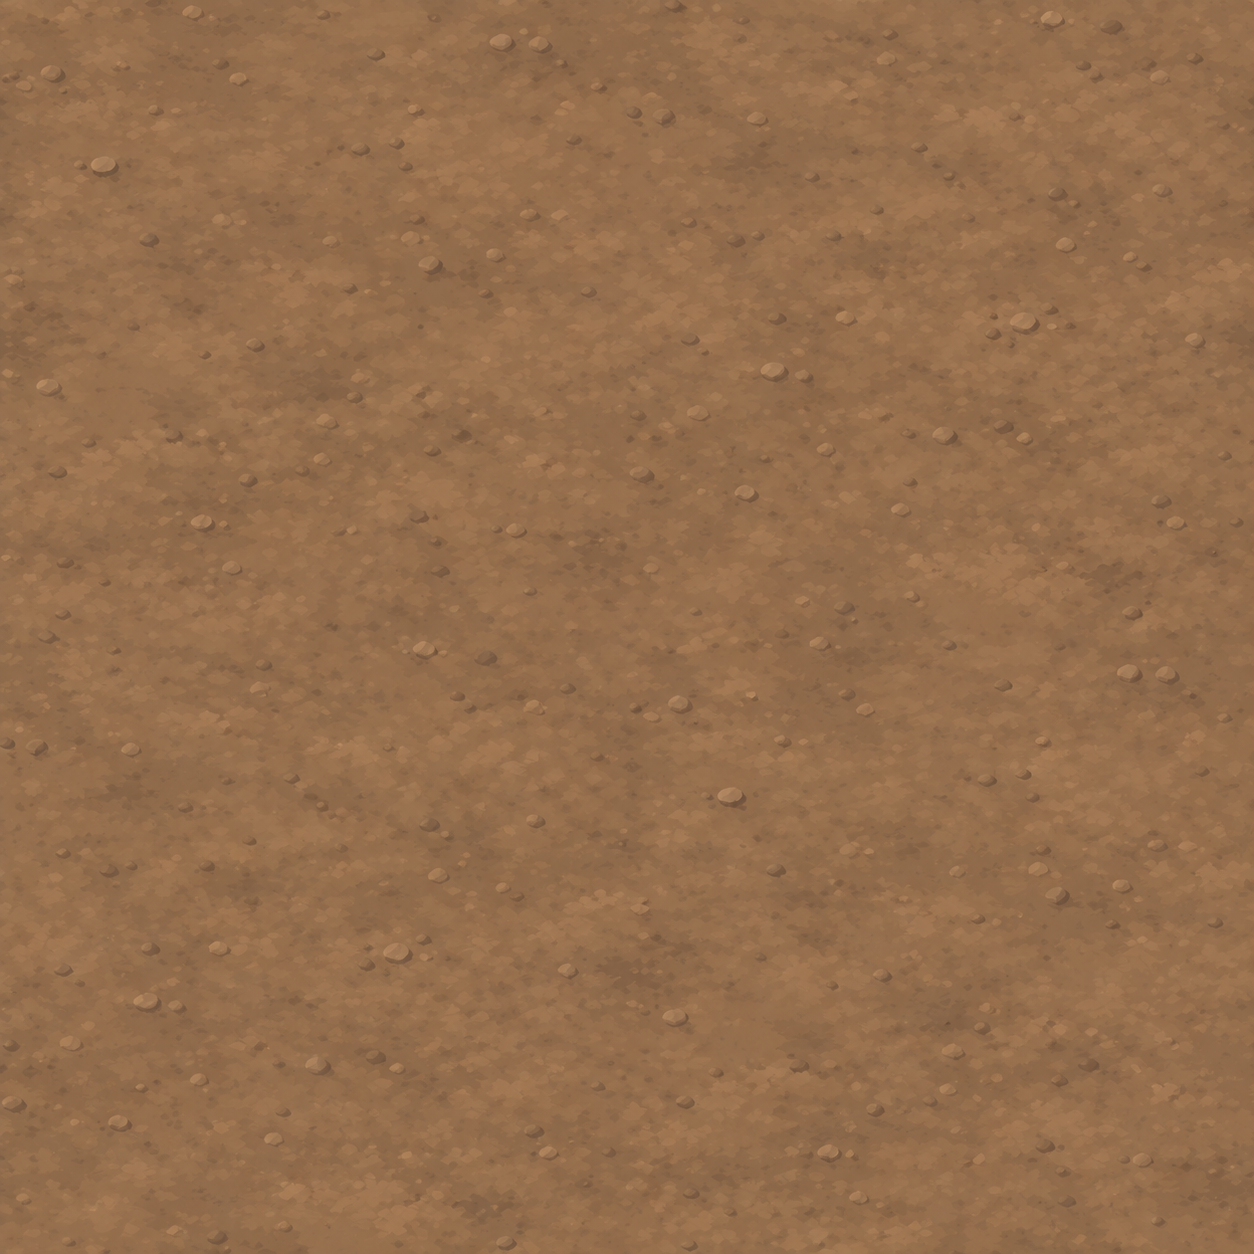
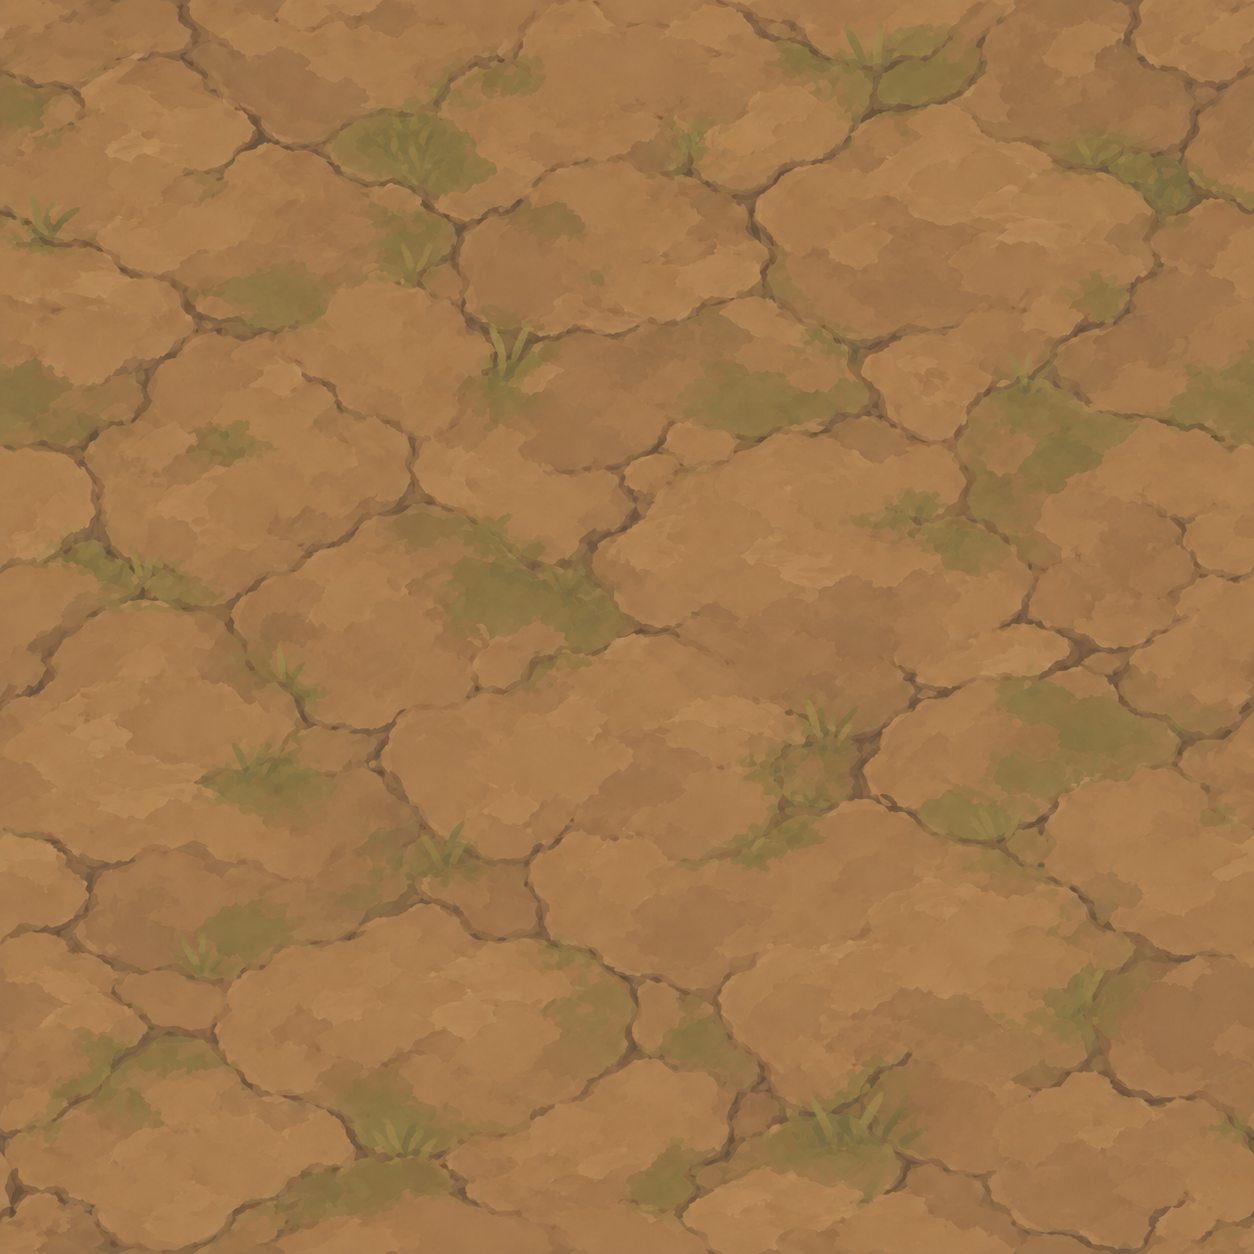
Add files via upload

diff --git a/sidescroll.js b/sidescroll.js
@@ -1,7 +1,7 @@
 (() => {
   'use strict';
 
-  // SideScroll v0.2.60: tune procedural woodland treatment around the approved tree set: smaller trees, non-repeating/spaced placement, far-side-only spawning, no legacy ground dressing, and softer blue distance fog.
+  // SideScroll v0.2.61: bring the procedural woodland back toward the path: slightly larger trees and a denser, closer far-side fringe while preserving spacing/repeat rules.
 
   const queryParams = new URLSearchParams(window.location.search);
   const PLAYER_MODE = queryParams.get('mode') === 'player';
@@ -724,7 +724,7 @@
     return tex;
   }
 
-  textures.pathDirt = createRepeatingImageTexture('terrain-dirt.png?v=0.2.60', 'terrain dirt texture', {
+  textures.pathDirt = createRepeatingImageTexture('terrain-dirt.png?v=0.2.61', 'terrain dirt texture', {
     placeholderDraw: drawFallbackTerrainTexture,
     potSize: 1024
   });
@@ -732,8 +732,8 @@
   // v1.8.81: forest dressing now comes from one authored atlas.
   // This removes the old per-file fallback path which could substitute the
   // full woodland source sheet when an individual PNG failed to load.
-  textures.dressingAtlas = createImageTexture('sidescroll-dressing-atlas.png?v=0.2.60', 'SideScroll dressing atlas');
-  textures.treeAtlas = createImageTexture('sidescroll-tree-atlas.png?v=0.2.60', 'SideScroll tree atlas');
+  textures.dressingAtlas = createImageTexture('sidescroll-dressing-atlas.png?v=0.2.61', 'SideScroll dressing atlas');
+  textures.treeAtlas = createImageTexture('sidescroll-tree-atlas.png?v=0.2.61', 'SideScroll tree atlas');
   const assetUv = {
     tree01: { scale: [0.239257812, 0.408203125], offset: [0.006835938, 0.578125000] },
     tree02: { scale: [0.239257812, 0.329101562], offset: [0.252929688, 0.578125000] },
@@ -976,14 +976,14 @@
   const TILE = { minX: -62, maxX: 62 };
   const TILE_WIDTH = TILE.maxX - TILE.minX;
   const WORLD = { nearZ: 10.5, farZ: -42 };
-  // v0.2.60: a slightly bluer fog with a gentler near-field contribution.
+  // v0.2.61: a slightly bluer fog with a gentler near-field contribution.
   // The fragment shader adds an eased/power curve so contrast stays stronger
   // around the player and falls away progressively deeper into the forest.
   const fogColor = [0.835, 0.885, 0.945];
   const FOG_NEAR = 7.8;
   const FOG_FAR = 46.0;
   const FOG_AMOUNT = 0.90;
-  const PROCEDURAL_TREE_SCALE = 0.80;
+  const PROCEDURAL_TREE_SCALE = 0.90;
   const HIDE_LEGACY_GROUND_DRESSING = true;
   const groundY = -4.55;
 
@@ -1347,13 +1347,13 @@
   function scatterForest() {
     const trees = ['tree01', 'tree02', 'tree03', 'tree04', 'tree05', 'tree06', 'tree07', 'tree08'];
 
-    // v0.2.60 woodland pass -------------------------------------------------
+    // v0.2.61 woodland proximity pass ----------------------------------------
     // Only the approved tree family is spawned procedurally for now. The old
     // grass/rock dressing is intentionally withheld until those assets receive
     // the same art treatment, and no trees are placed on the near side of the
     // gameplay path.
     const placedTrees = [];
-    const nearestTreeZ = -(PATH_FLAT_HALF + 1.85); // ~2m clear of gameplay path.
+    const nearestTreeZ = -(PATH_FLAT_HALF + 1.05); // let some trunks sit about 1m beyond the flat gameplay edge.
     const generalSpacing = 3.15;
     const sameVariantSpacing = 12.5;
 
@@ -1398,10 +1398,11 @@
       return true;
     }
 
-    // Main forest. About a quarter of attempts live in an irregular near fringe
-    // between roughly 2m and 6m beyond the playable path. The rest spreads into
-    // the full depth of the woodland. This breaks the previous ruler-straight
-    // path edge without letting trunks intrude on gameplay space.
+    // Main forest. A larger share now lives in the near fringe and is biased
+    // toward its closest edge. Combined with the slightly larger tree scale,
+    // this lets canopies intrude visually over the route so the player feels
+    // inside the woodland rather than alongside a distant tree line. Trunks
+    // remain on the far side only and outside the flat gameplay surface.
     let placed = 0;
     let attempts = 0;
     const targetMainTrees = 118;
@@ -1409,8 +1410,8 @@
       attempts += 1;
       const x = TILE.minX + rand() * TILE_WIDTH;
       let z;
-      if (rand() < 0.28) {
-        z = nearestTreeZ - Math.pow(rand(), 0.78) * 4.3;
+      if (rand() < 0.40) {
+        z = nearestTreeZ - Math.pow(rand(), 1.45) * 4.8;
       } else {
         const depth = Math.pow(rand(), 1.18);
         z = nearestTreeZ - 1.0 - depth * 33.6;
@@ -1789,7 +1790,7 @@
   }
 
   function inventoryThumbMarkup(itemDef) {
-    if (itemDef?.image) return `<span class="sidescroll-inventory-thumb"><img src="${itemDef.image}?v=0.2.60" alt=""></span>`;
+    if (itemDef?.image) return `<span class="sidescroll-inventory-thumb"><img src="${itemDef.image}?v=0.2.61" alt=""></span>`;
     if (itemDef?.asset === 'forest-key') return '<span class="sidescroll-inventory-thumb sidescroll-inventory-key-thumb" aria-hidden="true"><i></i></span>';
     return '<span class="sidescroll-inventory-thumb" aria-hidden="true">◇</span>';
   }
@@ -4537,7 +4538,7 @@
           ? `sidescroll-tree-${name.slice(-2)}.png`
           : (name.startsWith('ground') ? `sidescroll-ground-${name.slice(-2)}.png` : null));
         if (file) {
-          btn.innerHTML = `<span class="sidescroll-asset-thumb"><img src="${file}?v=0.2.60" alt="" loading="eager"></span><small>${info.label}</small>`;
+          btn.innerHTML = `<span class="sidescroll-asset-thumb"><img src="${file}?v=0.2.61" alt="" loading="eager"></span><small>${info.label}</small>`;
         } else if (name === 'crate') {
           btn.innerHTML = `<span class="sidescroll-crate-thumb" aria-hidden="true"><i></i></span><small>${info.label}</small>`;
         } else {

diff --git a/puzzle-groups.js b/puzzle-groups.js
@@ -3,17 +3,17 @@ window.SideScrollPuzzleConfig = {
   assetPacks: {
     "woodland-puzzle-atlas-v1": {
       assets: [
-        { name: "puzzle-log-a", url: "puzzle-log-a.png?v=0.2.60", aspect: 1.7095 },
-        { name: "puzzle-log-b", url: "puzzle-log-b.png?v=0.2.60", aspect: 1.5423 },
-        { name: "puzzle-log-c", url: "puzzle-log-c.png?v=0.2.60", aspect: 2.1916 },
-        { name: "puzzle-log-d", url: "puzzle-log-d.png?v=0.2.60", aspect: 2.3850 },
-        { name: "fallen-tree", url: "fallen-tree.png?v=0.2.60", aspect: 2.3644 },
-        { name: "tree-stump", url: "tree-stump.png?v=0.2.60", aspect: 2.4223 },
-        { name: "broken-branch", url: "broken-branch.png?v=0.2.60", aspect: 2.7182 },
-        { name: "stone-wall", url: "stone-wall.png?v=0.2.60", aspect: 3.1356 },
-        { name: "stone-piece-a", url: "stone-piece-a.png?v=0.2.60", aspect: 1.0664 },
-        { name: "stone-piece-b", url: "stone-piece-b.png?v=0.2.60", aspect: 0.9545 },
-        { name: "stone-piece-c", url: "stone-piece-c.png?v=0.2.60", aspect: 1.1278 }
+        { name: "puzzle-log-a", url: "puzzle-log-a.png?v=0.2.61", aspect: 1.7095 },
+        { name: "puzzle-log-b", url: "puzzle-log-b.png?v=0.2.61", aspect: 1.5423 },
+        { name: "puzzle-log-c", url: "puzzle-log-c.png?v=0.2.61", aspect: 2.1916 },
+        { name: "puzzle-log-d", url: "puzzle-log-d.png?v=0.2.61", aspect: 2.3850 },
+        { name: "fallen-tree", url: "fallen-tree.png?v=0.2.61", aspect: 2.3644 },
+        { name: "tree-stump", url: "tree-stump.png?v=0.2.61", aspect: 2.4223 },
+        { name: "broken-branch", url: "broken-branch.png?v=0.2.61", aspect: 2.7182 },
+        { name: "stone-wall", url: "stone-wall.png?v=0.2.61", aspect: 3.1356 },
+        { name: "stone-piece-a", url: "stone-piece-a.png?v=0.2.61", aspect: 1.0664 },
+        { name: "stone-piece-b", url: "stone-piece-b.png?v=0.2.61", aspect: 0.9545 },
+        { name: "stone-piece-c", url: "stone-piece-c.png?v=0.2.61", aspect: 1.1278 }
       ]
     }
   },

diff --git a/play.html b/play.html
@@ -9,7 +9,7 @@
   <meta name="theme-color" content="#081015">
   <link rel="manifest" href="manifest.json">
   <link rel="apple-touch-icon" href="icon-192.png">
-  <link rel="stylesheet" href="style.css?v=0.2.60">
+  <link rel="stylesheet" href="style.css?v=0.2.61">
   <title>SideScroll</title>
 </head>
 <body class="modular-game ss-standalone-game" data-game-id="game-16">
@@ -279,11 +279,11 @@
     </section>
   </main>
 
-  <script src="site-config.js?v=0.2.60"></script>
-  <script src="core.js?v=0.2.60"></script>
-  <script src="walk-rig.js?v=0.2.60"></script>
-  <script src="puzzle-groups.js?v=0.2.60"></script>
-  <script src="baked-game-design.js?v=0.2.60"></script>
-  <script src="sidescroll.js?v=0.2.60"></script>
+  <script src="site-config.js?v=0.2.61"></script>
+  <script src="core.js?v=0.2.61"></script>
+  <script src="walk-rig.js?v=0.2.61"></script>
+  <script src="puzzle-groups.js?v=0.2.61"></script>
+  <script src="baked-game-design.js?v=0.2.61"></script>
+  <script src="sidescroll.js?v=0.2.61"></script>
 </body>
 </html>

diff --git a/walk-lab.html b/walk-lab.html
@@ -9,7 +9,7 @@
   <meta name="theme-color" content="#e7dbd2">
   <link rel="manifest" href="manifest.json">
   <link rel="apple-touch-icon" href="icon-192.png">
-  <link rel="stylesheet" href="style.css?v=0.2.60">
+  <link rel="stylesheet" href="style.css?v=0.2.61">
   <title>Walk Lab · SideScroll</title>
 </head>
 <body class="modular-game ss-standalone-game" data-game-id="game-17">
@@ -78,9 +78,9 @@
     </section>
   </main>
 
-  <script src="site-config.js?v=0.2.60"></script>
-  <script src="core.js?v=0.2.60"></script>
-  <script src="walk-rig.js?v=0.2.60"></script>
-  <script src="walk-lab.js?v=0.2.60"></script>
+  <script src="site-config.js?v=0.2.61"></script>
+  <script src="core.js?v=0.2.61"></script>
+  <script src="walk-rig.js?v=0.2.61"></script>
+  <script src="walk-lab.js?v=0.2.61"></script>
 </body>
 </html>

diff --git a/index.html b/index.html
@@ -9,7 +9,7 @@
   <meta name="theme-color" content="#172026">
   <link rel="manifest" href="manifest.json">
   <link rel="apple-touch-icon" href="icon-192.png">
-  <link rel="stylesheet" href="style.css?v=0.2.60">
+  <link rel="stylesheet" href="style.css?v=0.2.61">
   <title>SideScroll</title>
 </head>
 <body class="modular-home ss-home">
@@ -52,8 +52,8 @@
     </section>
   </div>
 
-  <script src="site-config.js?v=0.2.60"></script>
-  <script src="core.js?v=0.2.60"></script>
-  <script src="home.js?v=0.2.60"></script>
+  <script src="site-config.js?v=0.2.61"></script>
+  <script src="core.js?v=0.2.61"></script>
+  <script src="home.js?v=0.2.61"></script>
 </body>
 </html>

diff --git a/sw.js b/sw.js
@@ -1,4 +1,4 @@
-const CACHE = "sidescroll-v0.2.60";
+const CACHE = "sidescroll-v0.2.61";
 const APP_SHELL = [
   "./",
   "./index.html",

diff --git a/README.md b/README.md
@@ -1,10 +1,7 @@
-# SideScroll v0.2.60
+# SideScroll v0.2.62
 
-Procedural woodland treatment pass.
+Updated woodland ground texture.
 
-- Scaled all procedurally spawned trees down by 20%.
-- Added minimum tree spacing and same-variant separation so repeated silhouettes do not cluster on screen.
-- Trees now spawn only on the far side of the path, with a more irregular near fringe while keeping roughly 2m clear of gameplay space.
-- Disabled procedural grass/rock dressing, and suppresses legacy hand-placed ground dressing for now, until those assets receive the new art treatment.
-- Reduced near-field fog, changed it to an eased distance curve, and shifted the fog/background toward a subtle cool blue.
-- No puzzle, collision, character-control or interaction-system changes.
+- Replaced the main `terrain-dirt.png` with the new hand-painted cracked-earth texture.
+- Added subtle painted grass patches into the ground texture so it sits better with the current tree set.
+- No changes to tree placement, fog, puzzle logic, collision, controls, or editor systems.
